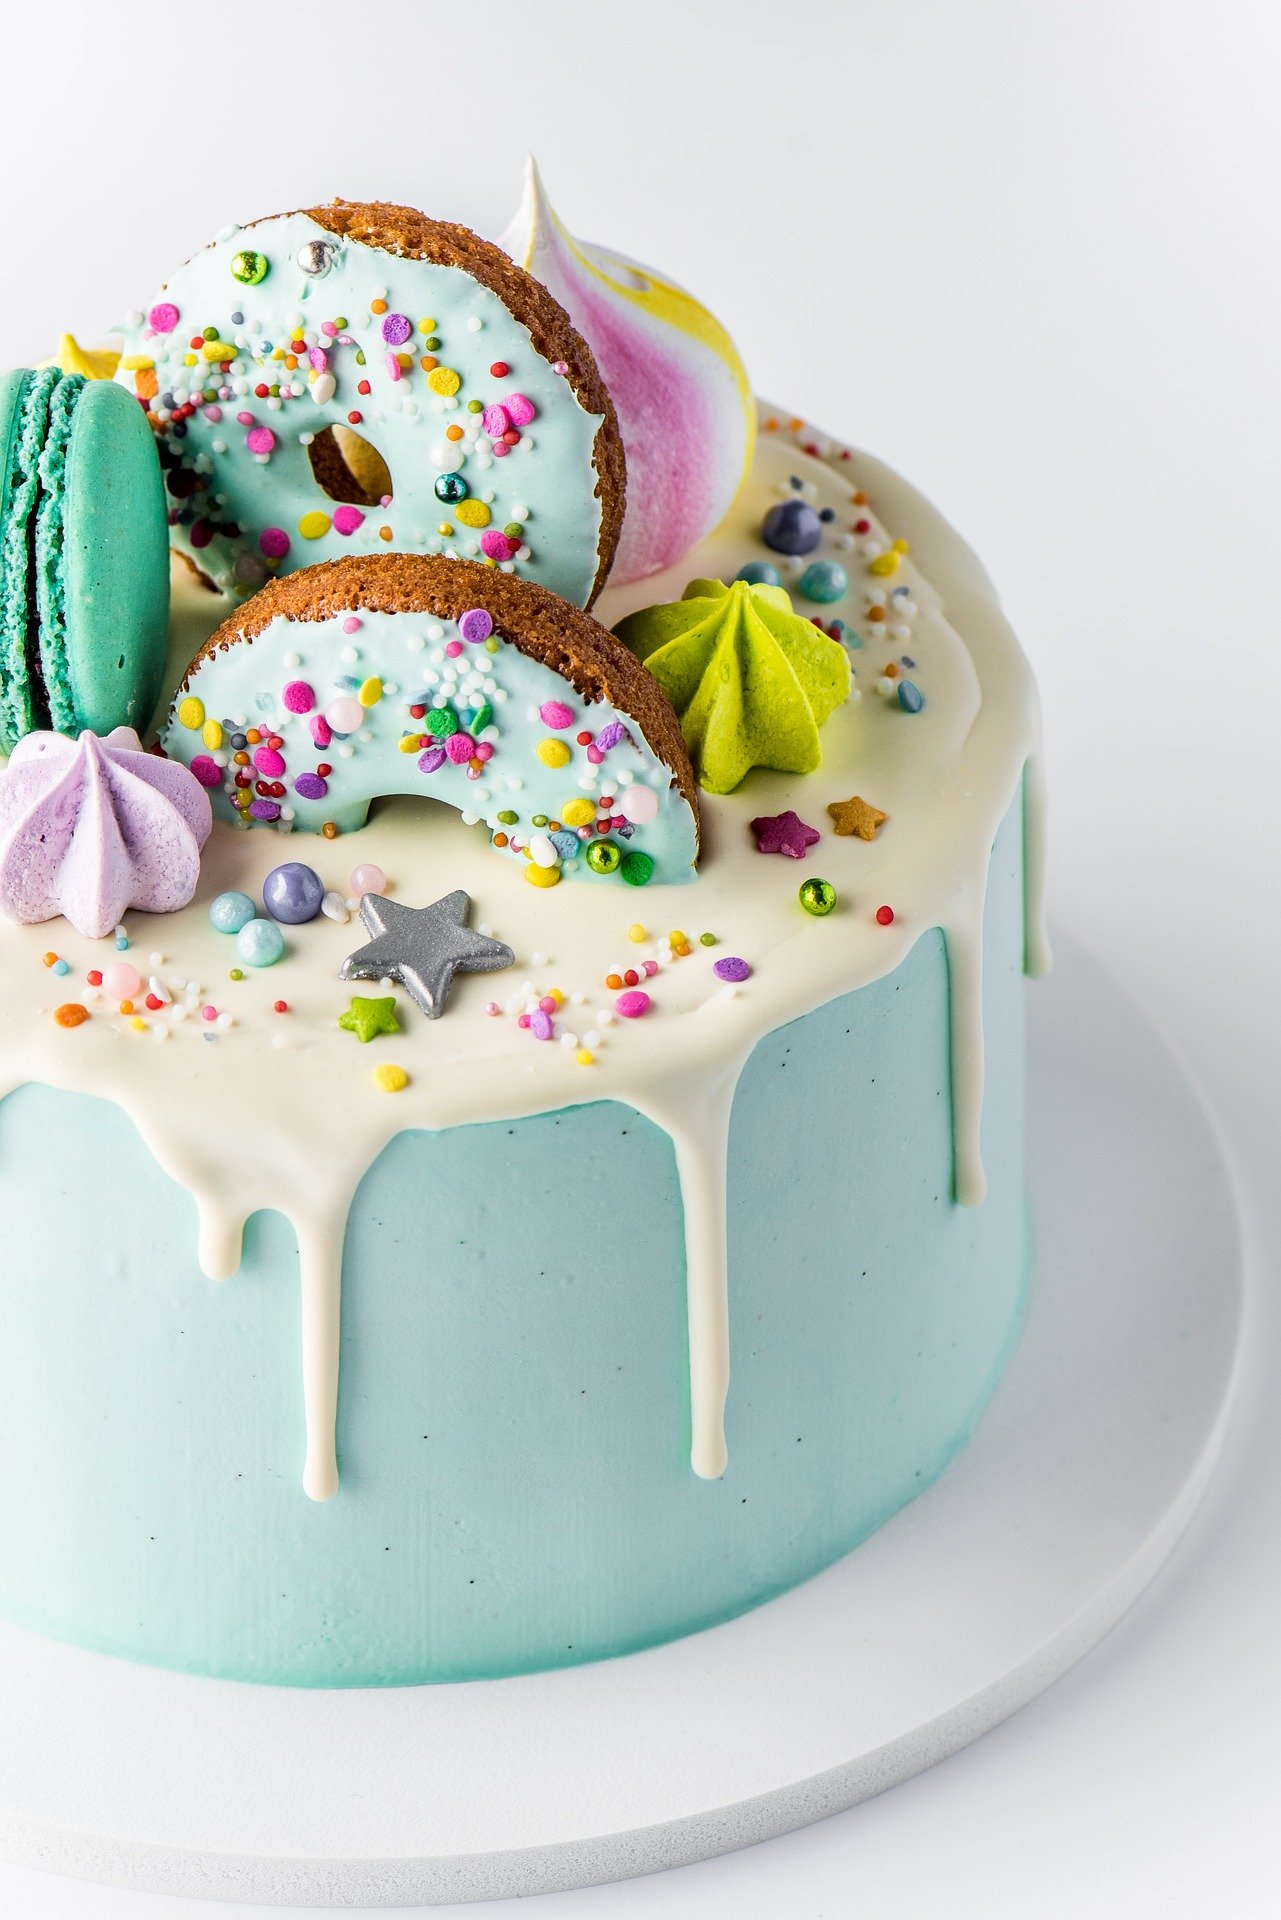
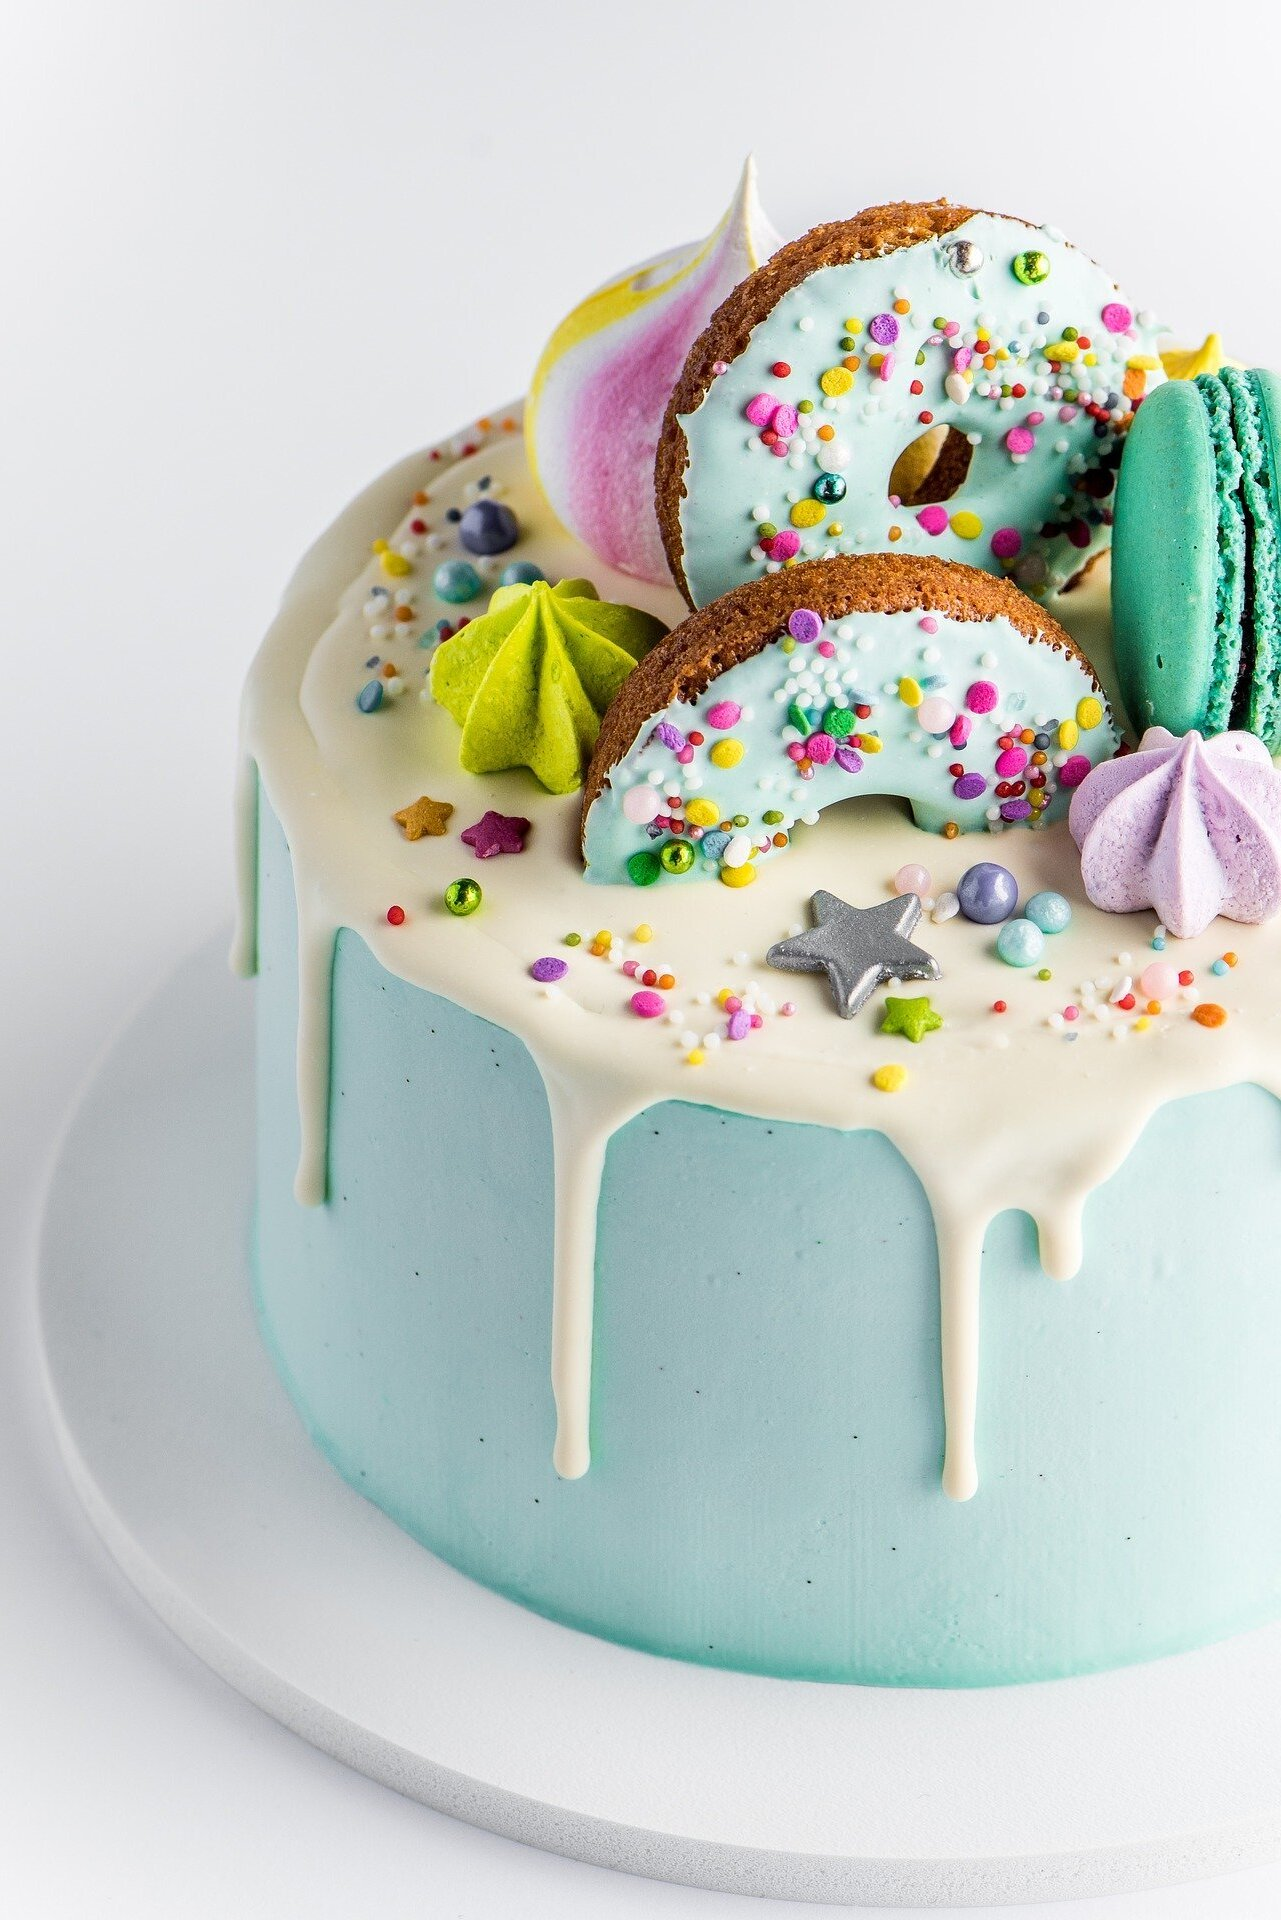
style

diff --git a/src/Pricing.js b/src/Pricing.js
@@ -1,5 +1,5 @@
 import React, {Component} from "react";
-import './css/about.css';
+import './css/pricing.css';
 
 const image = require('./img/cake2.jpg');
 
@@ -7,8 +7,7 @@ const divStyle = {
     width: '100%',
     height: '800px',
     backgroundImage: `url(${image})`,
-    backgroundSize: 'cover',
-    filter: 'FlipH'
+    backgroundSize: 'cover'
 };
 
 class Pricing extends Component {
@@ -17,13 +16,9 @@ class Pricing extends Component {
             <div style={divStyle}>
                 <div className='main'>
                     <div className='box'>
-                        <p>We are an international, premium patisserie and café founded in 1990 specializing in
-                            delightful assortments of desserts, pastries and cakes baked daily. Our mission is to bring
-                            happiness to everyone by adapting to people’s ever-expanding palates with our decadent,
-                            unique and
-                            sophisticated pastries, breads, and cakes. We serve a variety of treats ranging from
-                            appetizing snacks to stunning and delicious cakes for all occasions, as well as
-                            chef-inspired sandwiches and salads.</p>
+                        <p>Each order is priced individually. Price for normal cakes vary from 30 to 50$. Price for
+                            wedding cakes start from 100$. Everything depends on the size and ingredients used for your
+                            cake.</p>
                     </div>
                 </div>
             </div>

diff --git a/src/ParallaxScrolling.js b/src/ParallaxScrolling.js
@@ -55,8 +55,8 @@ class ParallaxScrolling extends Component {
                             <div className="hsContainer">
                                 <div className="hsContent" data-center="opacity: 1" data-106-top="opacity: 0"
                                      data-anchor-target="#slide-1 h2">
-                                    <h2>Try our delicious<br/>desserts and cakes</h2>
-                                    <p>We offer many different cakes and desserts in our shop.</p>
+                                    <h2>Try our delicious<br/>desserts and coffee</h2>
+                                    <p>You'll find many types of grains here</p>
                                 </div>
                             </div>
                         </div>

diff --git a/src/InfiniteScroll.js b/src/InfiniteScroll.js
@@ -9,9 +9,6 @@ let splitter = Math.ceil(comments.length / 2);
 let firstpart = comments.splice(0, splitter);
 let secondpart = comments.splice(splitter)
 
-const style = {
-
-};
 
 class MyInfiniteScroll extends React.Component {
 
@@ -52,8 +49,8 @@ class MyInfiniteScroll extends React.Component {
                         </p>
                     }
                 >
-                    {this.state.items.map((comm, index) => (
-                        <div style={style} key={index}>
+                    {this.state.items.map((comm) => (
+                        <div>
                             <Comment key={comm.date} comment={comm}>{comm.text}</Comment>
                         </div>
                     ))}

diff --git a/src/css/slides.css b/src/css/slides.css
@@ -16,23 +16,31 @@
     padding: 0 8%;
     text-align: center
 }
+
+.hsContent h1 {
+    font-size: 70px;
+}
+
 .hsContent h2,
 .copy h2 {
     color: white;
-    font-size: 45px;
+    font-size: 50px;
     line-height: 48px;
     margin-bottom: 12px;
 }
+
 .hsContent p {
     width: 400px;
     margin: 0 auto;
     color: lightgray;
 }
+
 .hsContent a {
     color: lightgray;
     text-decoration: underline;
 }
+
 .bgBlack {
-    background-color: rgba(0,0,0,0.75);
+    background-color: rgba(0, 0, 0, 0.75);
     padding: 3px 10px;
 }

diff --git a/src/css/pricing.css b/src/css/pricing.css
@@ -1,0 +1,19 @@
+.main {
+    position: relative;
+    width: 350px;
+    min-height: 60px;
+    margin-left: 100px;
+    padding-top: 15px;
+}
+
+.box {
+    font-family: sans-serif;
+    margin-top: 100px;
+    margin-left: 0px;
+    color: dimgrey;
+    text-align: center;
+}
+
+p {
+    font-size: 20px;
+}

diff --git a/src/About.js b/src/About.js
@@ -7,8 +7,7 @@ const divStyle = {
     width: '100%',
     height: '800px',
     backgroundImage: `url(${image})`,
-    backgroundSize: 'cover',
-    filter: 'FlipH'
+    backgroundSize: 'cover'
 };
 
 class About extends Component {

diff --git a/src/css/scroll.css b/src/css/scroll.css
@@ -1,5 +1,10 @@
 .comment-box{
-    padding-left: 80px;
-    padding-right: 80px;
+    padding-left: 100px;
+    padding-right: 300px;
+    padding-top: 20px;
+    text-align: justify;
+}
 
+.comment-box h1{
+    color: #36486b;
 }

diff --git a/src/Menu.js b/src/Menu.js
@@ -5,6 +5,7 @@ import {
     Route,
     HashRouter
 } from "react-router-dom";
+
 import ParallaxScrolling from "./ParallaxScrolling";
 import About from "./About";
 import MyInfiniteScroll from "./InfiniteScroll";
